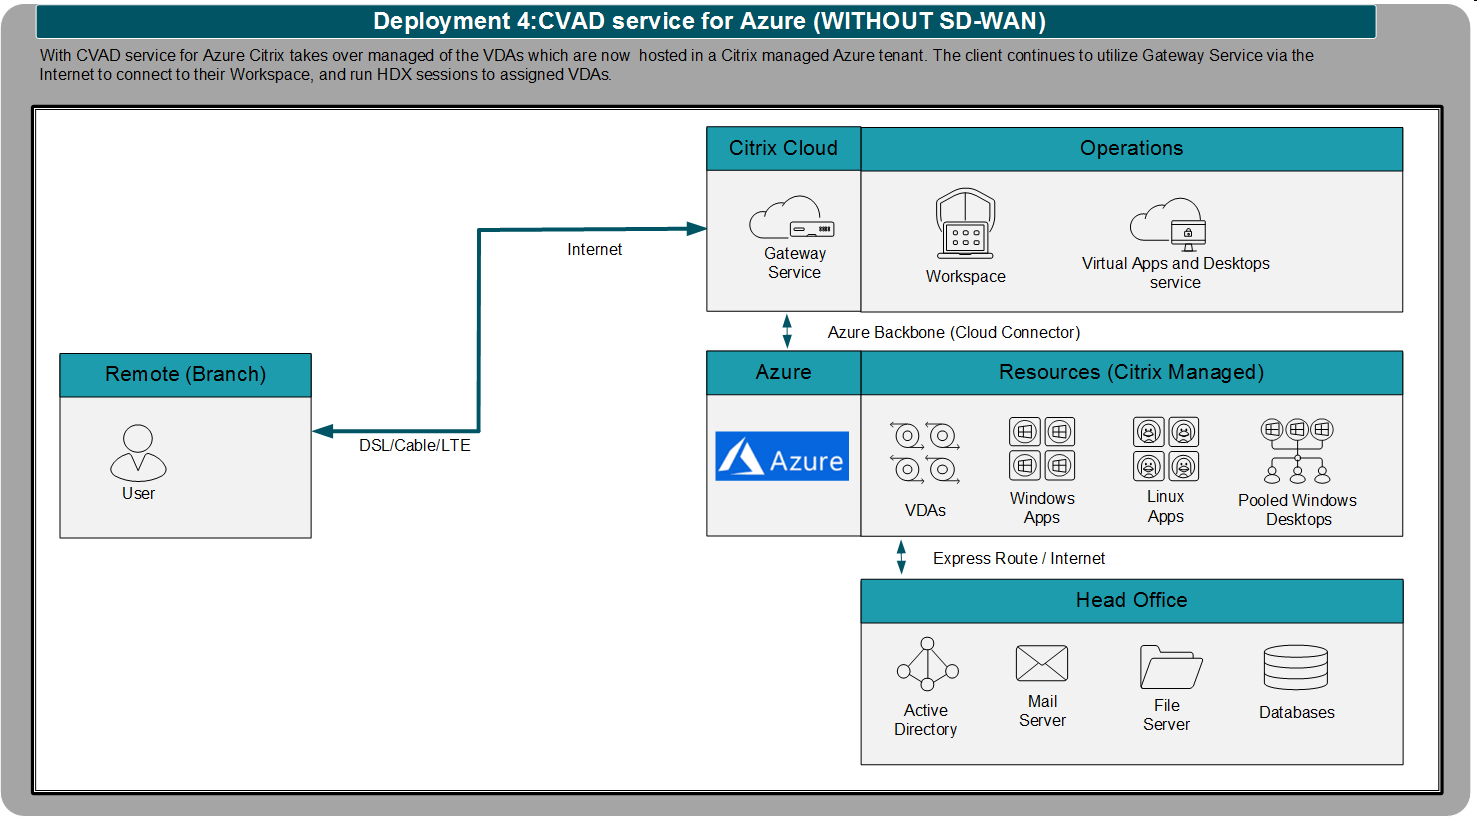
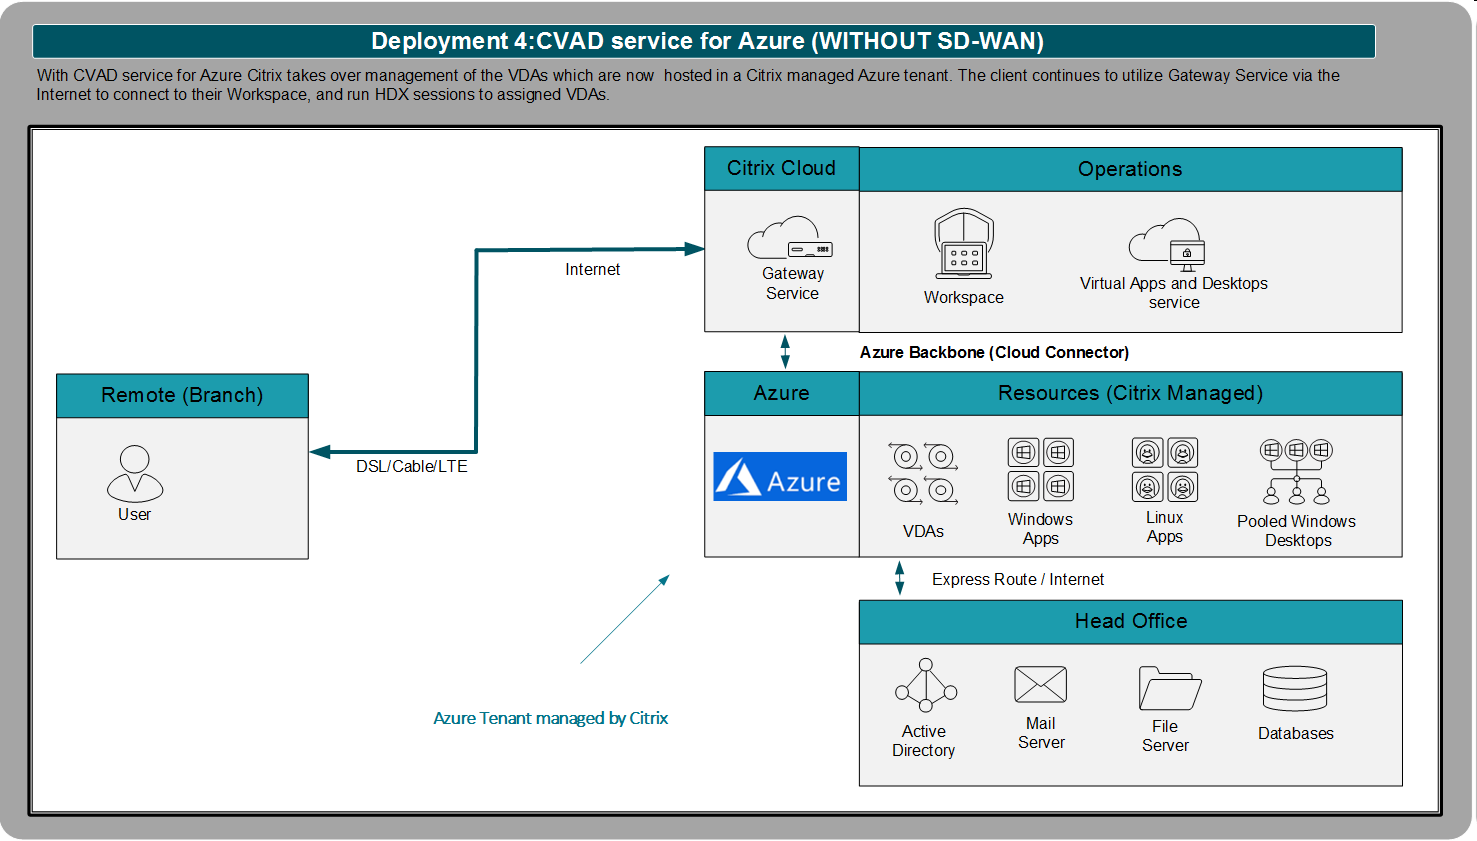
updates

diff --git a/en-us/tech-zone/learn/tech-briefs/sdwan-deployment-scenarios.md b/en-us/tech-zone/learn/tech-briefs/sdwan-deployment-scenarios.md
@@ -30,7 +30,7 @@ Citrix SD-WAN is a proven, cost-effective solution that has helped companies aro
 
 Until recently, you'd find that all of the resources (VDAs, AD, and data servers), and managing operations (licensing, StoreFront, and Director) resided in the data center. Citrix technologies have evolved since then, and we recommend that most organizations use or plan to use cloud services when feasible. Although we recommend using the cloud service, customers can choose to continue using the on-premises or hybrid cloud solution.
 
-![Scenarios 1 - Without SD-WAN](/en-us/tech-zone/learn/media/tech-briefs_sdwan-deployment-scenarios_scenarios1withoutsdwan.png)
+[![Scenarios 1 - Without SD-WAN](/en-us/tech-zone/learn/media/tech-briefs_sdwan-deployment-scenarios_scenarios1withoutsdwan.png)](/en-us/tech-zone/learn/media/tech-briefs_sdwan-deployment-scenarios_scenarios1withoutsdwan.png)
 
 Normally, a branch was connected to the data center through MPLS links. MPLS links are reliable. However, costs are significantly higher than broadband connections, and MPLS links take longer to implement. Citrix SD-WAN helps reduce the cost by allowing you to use broadband alongside or instead of your MPLS while ensuring the reliability, and security of your private WAN. This use case can be implemented rapidly, and it provides many benefits:
 
@@ -50,13 +50,13 @@ To reach the StoreFront FQDN, the endpoint resolves an internal IP address. It i
 
 For more information see the [Citrix Virtual Apps and Desktops - Component Architecture](/en-us/tech-zone/learn/downloads/diagrams-posters_virtual-apps-and-desktops_poster.png)
 
-![Scenarios 1 - WITH SD-WAN](/en-us/tech-zone/learn/media/tech-briefs_sdwan-deployment-scenarios_scenarios1withsdwan.png)
+[![Scenarios 1 - WITH SD-WAN](/en-us/tech-zone/learn/media/tech-briefs_sdwan-deployment-scenarios_scenarios1withsdwan.png)](/en-us/tech-zone/learn/media/tech-briefs_sdwan-deployment-scenarios_scenarios1withsdwan.png)
 
 ### Deployment 2: Citrix Virtual Apps and Desktops Service with resources on-premises
 
 As Citrix customers move to the cloud, their first step is often to use the Citrix Virtual Apps and Desktops service to manage their virtual apps, and desktops workloads hosted at their on-premises locations. Citrix takes over maintaining the control systems, while customers can continue to manage their environments through Citrix Cloud.
 
-![Scenarios 2 - Without SD-WAN](/en-us/tech-zone/learn/media/tech-briefs_sdwan-deployment-scenarios_scenarios2withoutsdwan.png)
+[![Scenarios 2 - Without SD-WAN](/en-us/tech-zone/learn/media/tech-briefs_sdwan-deployment-scenarios_scenarios2withoutsdwan.png)](/en-us/tech-zone/learn/media/tech-briefs_sdwan-deployment-scenarios_scenarios2withoutsdwan.png)
 
 Although, in this scenario, while managing operations through the Citrix Cloud service is simplified, network connectivity may not be. Session traffic is directed to the nearest Citrix Gateway service PoP. From there, it is proxied to the resource locations. While there are many PoP locations around the world, for endpoints in Remote Branches on the WAN, this step can add latency.
 
@@ -71,13 +71,13 @@ Citrix SD-WAN offers a solution to these issues, and provides other benefits in 
 *  **Providing deep visibility into HDX traffic** enabling IT to monitor User Experience, and proactively act in the event there is degradation
 *  **Citrix Cloud and Gateway Service internet breakout policy** allowing First Packet Classification, facilitating direct internet breakout from the SD-WAN branch, which reduces latency for endpoints that are unable to access StoreFront and VDAs directly over the Internal Network
 
-![Scenarios 2 - Without SD-WAN](/en-us/tech-zone/learn/media/tech-briefs_sdwan-deployment-scenarios_scenarios2withsdwan.png)
+[![Scenarios 2 - With SD-WAN](/en-us/tech-zone/learn/media/tech-briefs_sdwan-deployment-scenarios_scenarios2withsdwan.png)](/en-us/tech-zone/learn/media/tech-briefs_sdwan-deployment-scenarios_scenarios2withsdwan.png)
 
 ### Deployment 3: Citrix Virtual Apps, and Desktops Service with VDAs in the cloud, other resources on-premises
 
 In this deployment, Citrix provides a service to manage resources located both in the cloud and on-prem locations. The adoption rate of this deployment is high due to benefits including reduced complexity, and cost. Nonetheless, the complexity around network connectivity continues to provide some challenges. Citrix SD-WAN offers a simple, cost-effective solution. The figure below is a typical topology without Citrix SD-WAN where the VDAs are in public clouds, but the data servers and the Active Directory servers are located at the on-premises location.
 
-![Scenarios 3 - Without SD-WAN](/en-us/tech-zone/learn/media/tech-briefs_sdwan-deployment-scenarios_scenarios3withoutsdwan.png)
+[![Scenarios 3 - Without SD-WAN](/en-us/tech-zone/learn/media/tech-briefs_sdwan-deployment-scenarios_scenarios3withoutsdwan.png)](/en-us/tech-zone/learn/media/tech-briefs_sdwan-deployment-scenarios_scenarios3withoutsdwan.png)
 
 Citrix SD-WAN offers two solutions to the scenario above:
 
@@ -89,15 +89,15 @@ It takes time, and costs to deploy Cloud platform connectivity options such as M
 
 The second scenario in this deployment is the connectivity between branches, and VDAs in the cloud. The normal path for a branch user is through Citrix Cloud using the Citrix Gateway service, which is connected to VDAs through the Citrix connector. Usually, Citrix Cloud, and VDAs exist in different locations, and different clouds. The transit distance, and forwarding delays, across the best effort Internet, can add latency and disrupt user experience. Citrix SD-WAN, along with Direct Workload Connection, can improve the user experience by reducing latency, and by reducing the egress bandwidth cost since traffic is traversing out of one cloud.
 
-![Scenarios 3 - With SD-WAN](/en-us/tech-zone/learn/media/tech-briefs_sdwan-deployment-scenarios_scenarios3withsdwan.png)
+[![Scenarios 3 - With SD-WAN](/en-us/tech-zone/learn/media/tech-briefs_sdwan-deployment-scenarios_scenarios3withsdwan.png)](/en-us/tech-zone/learn/media/tech-briefs_sdwan-deployment-scenarios_scenarios3withsdwan.png)
 
-### Deployment 4: Citrix Virtual Apps and Desktops service for Azure
+### Deployment 4: Citrix Virtual Apps and Desktops Standard for Azure
 
-Citrix Virtual Apps and Desktops service for Azure (DaaS offering) makes it easy to deliver secure Windows apps, and desktops from Azure. Both management operations and VDA resources run inside virtual machines on the Azure public cloud that Citrix owns, and manages. The following figure is a typical topology with connectivity from branch users.
+Citrix Virtual Apps and Desktops Standard for Azure (DaaS offering) makes it easy to deliver secure Windows apps, and desktops from Azure. Both management operations and VDA resources run inside virtual machines on the Azure public cloud that Citrix owns, and manages. The following figure is a typical topology with connectivity from branch users.
 
-![Scenarios 4 - Without SD-WAN](/en-us/tech-zone/learn/media/tech-briefs_sdwan-deployment-scenarios_scenarios4withoutsdwan.png)
+[![Scenarios 4 - Without SD-WAN](/en-us/tech-zone/learn/media/tech-briefs_sdwan-deployment-scenarios_scenarios4withoutsdwan.png)](/en-us/tech-zone/learn/media/tech-briefs_sdwan-deployment-scenarios_scenarios4withoutsdwan.png)
 
-SD-WAN technology is now integrated in the Citrix Virtual Apps and Desktops Service for Azure to simplify network connectivity from your cloud-hosted desktops to both:
+SD-WAN technology is now integrated in the Citrix Virtual Apps and Desktops Standard for Azure to simplify network connectivity from your cloud-hosted desktops to both:
 
 *  **On-premises resources** such as Active Directory, and data sources
 *  **Branch users** the integrated SD-WAN solution also significantly cuts down the network connectivity cost, and enhances the user experience. In addition, customers connecting to the Citrix Virtual Apps and Desktops Service for Azure can access the below services:
@@ -105,13 +105,13 @@ SD-WAN technology is now integrated in the Citrix Virtual Apps and Desktops Serv
 *  **Data Centers** in different clouds
 *  **Use of cloud network** backbones
 
-![Scenarios 4 - With SD-WAN](/en-us/tech-zone/learn/media/tech-briefs_sdwan-deployment-scenarios_scenarios4withsdwan.png)
+[![Scenarios 4 - With SD-WAN](/en-us/tech-zone/learn/media/tech-briefs_sdwan-deployment-scenarios_scenarios4withsdwan.png)](/en-us/tech-zone/learn/media/tech-briefs_sdwan-deployment-scenarios_scenarios4withsdwan.png)
 
 ### Deployment 5: Citrix SD-WAN Cloud Direct service for Citrix Virtual Apps and Desktops Standard for Azure and Citrix Virtual Apps and Desktops Service use cases
 
 SD-WAN Cloud Direct is a service that provides many of the benefits of SD-WAN virtual paths, without the need to install SD-WAN in the cloud. It is a good alternative for customers who are unable to manage their own virtual SD-WAN instances in the cloud. Cloud Direct supports connecting to virtual desktops in the cloud, including Citrix Virtual Apps and Desktops, Citrix Virtual Apps and Desktops Standard for Azure and Microsoft Windows Virtual Desktops. Complementing Cloud Direct, Citrix SD-WAN also supports connectivity from virtual apps to on-prem resources (For example databases, back-end servers).
 
-![Scenarios 5 - Azure With SD-WAN](/en-us/tech-zone/learn/media/tech-briefs_sdwan-deployment-scenarios_scenarios5azurewithsdwan.png)
+[![Scenarios 5 - Azure With SD-WAN](/en-us/tech-zone/learn/media/tech-briefs_sdwan-deployment-scenarios_scenarios5azurewithsdwan.png)](/en-us/tech-zone/learn/media/tech-briefs_sdwan-deployment-scenarios_scenarios5azurewithsdwan.png)
 
 Citrix has multiple Cloud Direct PoPs around the world that are peered with most public cloud, and SaaS providers. Customers providing access to SaaS applications, Citrix Virtual Apps and Desktops Standard for Azure / Citrix Virtual Apps and Desktops Service / Windows Virtual Desktops, and other cloud providers can use this service to improve application response times. It is especially valuable for organizations accessing applications hosted by third parties. Most cloud providers charge for data leaving the cloud. So, putting SD-WAN in the cloud can add extra cost to the customer. These network bandwidth charges can be avoided using the Cloud Direct service. Here are a few benefits using the Cloud Direct service:
 
@@ -124,7 +124,7 @@ Citrix has multiple Cloud Direct PoPs around the world that are peered with most
 *  **Extended visibility**: Benefit reporting beyond the edge
 Citrix Virtual Apps and Desktops Standard for Azure is another SaaS application. Here’s how the Cloud Direct service is used for connecting to virtual desktops.
 
-![Scenarios 5 - Citrix Virtual Apps, and Desktops Service With SD-WAN](/en-us/tech-zone/learn/media/tech-briefs_sdwan-deployment-scenarios_scenarios5cvadswithsdwan.png)
+[![Scenarios 5 - Citrix Virtual Apps, and Desktops Service With SD-WAN](/en-us/tech-zone/learn/media/tech-briefs_sdwan-deployment-scenarios_scenarios5cvadswithsdwan.png)](/en-us/tech-zone/learn/media/tech-briefs_sdwan-deployment-scenarios_scenarios5cvadswithsdwan.png)
 
 Getting better experience to Citrix Virtual Apps and Desktops Service through the Citrix Cloud service is no different. Customers can choose a **SD-WAN book-ended solution** for network connectivity between Head office, and Cloud DC.
 
@@ -142,7 +142,7 @@ Citrix is one of the preferred Microsoft partners for connecting to Azure Virtua
 *  **Leverage Microsoft’s global backbone network** in branch to hub (in all Azure regions) communication.
 *  **Active-Active redundant IPSec tunnels** for failover to Azure vWAN using BGP for faster convergence and scalable management of network prefix changes
 
-![Scenarios 6 - With SD-WAN](/en-us/tech-zone/learn/media/tech-briefs_sdwan-deployment-scenarios_scenarios6withsdwan.png)
+[![Scenarios 6 - With SD-WAN](/en-us/tech-zone/learn/media/tech-briefs_sdwan-deployment-scenarios_scenarios6withsdwan.png)](/en-us/tech-zone/learn/media/tech-briefs_sdwan-deployment-scenarios_scenarios6withsdwan.png)
 
 ## Summary
 
